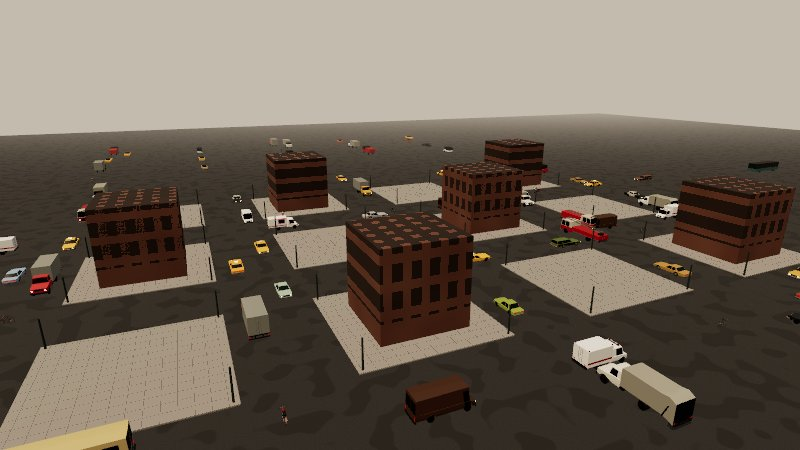
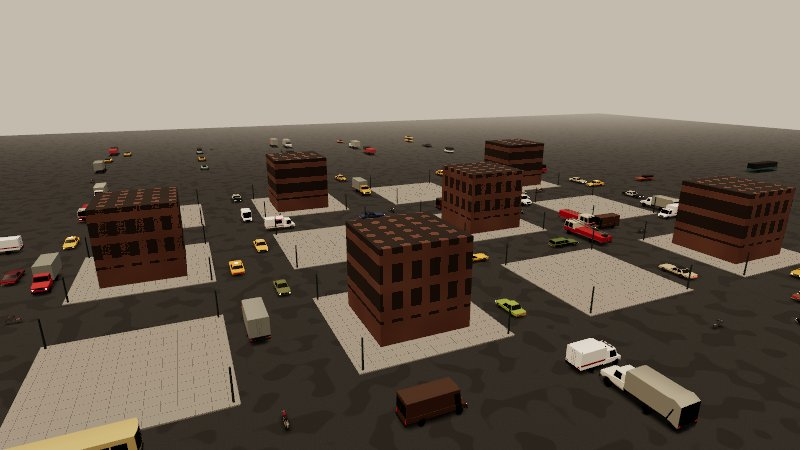
Vehicles: 1974 street paint mix (~10% white; earth tones, greens, golds, maroons, dark blues, beige); vinyl roofs on traffic instances
Claude-Session: https://claude.ai/code/session_01H4ZSJ51q9zJhE3T3n4Hw3M

diff --git a/src/vehicles/traffic.ts b/src/vehicles/traffic.ts
@@ -1,7 +1,7 @@
 import * as THREE from 'three/webgpu';
 import { SLOTS, type Slot } from './gen/builder';
 import { trafficSlotColor, type Quality } from './gen/materials';
-import { getAsset } from './assets';
+import { getAsset, variantOf } from './assets';
 import type { ModelSpec } from './gen/spec';
 import { MODEL_BY_ID } from './models';
 import { BIKE_BY_ID, buildBike, type BikeSpec } from './twowheel/bikes';
@@ -19,15 +19,16 @@ interface SplitOpts { paint2?: number; roofColor?: ModelSpec['roofColor']; signW
 function splitForInstancing(spec: SplitOpts, g: THREE.BufferGeometry) {
   const pos = g.getAttribute('position'), nrm = g.getAttribute('normal');
   const idx = g.index!;
-  const out = { paint: [] as number[], fixed: [] as number[], fixedCol: [] as number[], tail: [] as number[], head: [] as number[], sign: [] as number[] };
+  const out = { paint: [] as number[], fixed: [] as number[], fixedCol: [] as number[], tail: [] as number[], head: [] as number[], sign: [] as number[], vinyl: [] as number[] };
   const roofFixed = typeof spec.roofColor === 'number' ? spec.roofColor : spec.roofColor === 'paint2' ? spec.paint2 ?? 0xffffff : null;
   const c = new THREE.Color();
   const push = (arr: number[], i: number) => arr.push(pos.getX(i), pos.getY(i), pos.getZ(i), nrm.getX(i), nrm.getY(i), nrm.getZ(i));
   for (const grp of g.groups) {
     const slot = SLOTS[grp.materialIndex!] as Slot;
-    let target: 'paint' | 'fixed' | 'tail' | 'head' | 'sign';
+    let target: 'paint' | 'fixed' | 'tail' | 'head' | 'sign' | 'vinyl';
     let col: number | null = null;
     if (slot === 'paint' || (slot === 'roof' && roofFixed === null)) target = 'paint';
+    else if (slot === 'vinyl') target = 'vinyl'; // per-instance colour: vinyl, or the paint when the car has none
     else if (slot === 'taillamp') target = 'tail';
     else if (slot === 'headlamp') target = 'head';
     else if (slot === 'white' && spec.signWhite) target = 'sign'; // taxi roof light box / beacons
@@ -51,7 +52,7 @@ function splitForInstancing(spec: SplitOpts, g: THREE.BufferGeometry) {
     if (col) geo.setAttribute('color', new THREE.Float32BufferAttribute(col, 3));
     return geo;
   };
-  return { paint: mk(out.paint), fixed: mk(out.fixed, out.fixedCol), tail: mk(out.tail), head: mk(out.head), sign: mk(out.sign) };
+  return { paint: mk(out.paint), fixed: mk(out.fixed, out.fixedCol), tail: mk(out.tail), head: mk(out.head), sign: mk(out.sign), vinyl: mk(out.vinyl) };
 }
 
 /** A two-wheeler's LOD1 parts merged (frame, steering assembly, wheels) for instancing. */
@@ -69,7 +70,9 @@ function bikeGeometry(b: BikeSpec): THREE.BufferGeometry {
 
 /** Body + wheels merged into one geometry so a whole car is three instanced draws. */
 function withWheels(spec: ModelSpec, lod: 1 | 2): THREE.BufferGeometry {
-  const a = getAsset(spec, { vinyl: 'none', whitewall: false, wheelStyle: spec.wheelStyle });
+  // models that come with vinyl roofs carry the vinyl panel; cars without one get it painted (per instance)
+  const vinyl = spec.vinylChance > 0 ? (spec.cls === 'coupe' ? 'landau' : 'full') : 'none';
+  const a = getAsset(spec, { vinyl, whitewall: false, wheelStyle: spec.wheelStyle });
   if (lod === 2) return a.lod2;
   const g = a.lod1;
   const parts: THREE.BufferGeometry[] = [g.body.clone()];
@@ -110,6 +113,7 @@ function mergeGrouped(gs: THREE.BufferGeometry[]): THREE.BufferGeometry {
 }
 
 interface ModelBatch {
+  vinyl: THREE.InstancedMesh | null;
   paint: THREE.InstancedMesh; fixed: THREE.InstancedMesh; tail: THREE.InstancedMesh; head: THREE.InstancedMesh; sign: THREE.InstancedMesh | null;
   /** Contact shadow (one quad per car); ground light pools (own counts: only cars with lamps lit). */
   shadow: THREE.InstancedMesh; pool: THREE.InstancedMesh; brake: THREE.InstancedMesh; tailGlow: THREE.InstancedMesh;
@@ -126,7 +130,7 @@ export class TrafficRenderer {
   private batches = new Map<string, [ModelBatch, ModelBatch]>();
   private dims = new Map<string, ModelDims>();
   private shadowMats: THREE.Material[] = [];
-  private resolveCache = new Map<string, { modelId: string; paint: THREE.Color }>();
+  private resolveCache = new Map<string, { modelId: string; paint: THREE.Color; vinyl: THREE.Color }>();
   private lampCols = {
     brake: new THREE.Color(0xff2a10).multiplyScalar(2.2), tailRun: new THREE.Color(0xc01808), tailOff: new THREE.Color(0x4a0806),
     reverse: new THREE.Color(0xffffff).multiplyScalar(1.6), amber: new THREE.Color(0xff9a20).multiplyScalar(2),
@@ -134,7 +138,7 @@ export class TrafficRenderer {
     signOn: new THREE.Color(0xfff2d0).multiplyScalar(1.8), signOff: new THREE.Color(0xc8c4b8),
     beacon: new THREE.Color(0xff2010).multiplyScalar(3), beaconOff: new THREE.Color(0x5a0a08),
   };
-  private mats: { paint: THREE.Material; fixed: THREE.Material; lamp: THREE.Material };
+  private mats: { paint: THREE.Material; fixed: THREE.Material; lamp: THREE.Material; vinyl: THREE.Material };
   private _m = new THREE.Matrix4(); private _q = new THREE.Quaternion(); private _p = new THREE.Vector3(); private _s = new THREE.Vector3(1, 1, 1); private _y = new THREE.Vector3(0, 1, 0);
   /** Distance (m) beyond which the box impostor is used. */
   lod2Distance: number;
@@ -147,6 +151,7 @@ export class TrafficRenderer {
       paint: new THREE.MeshStandardNodeMaterial({ roughness: 0.45, metalness: 0.1 }),
       fixed: new THREE.MeshStandardNodeMaterial({ vertexColors: true, roughness: 0.4, metalness: 0.3 }),
       lamp: new THREE.MeshBasicNodeMaterial({}),
+      vinyl: new THREE.MeshStandardNodeMaterial({ roughness: 0.78, metalness: 0 }),
     };
   }
 
@@ -190,10 +195,11 @@ export class TrafficRenderer {
         paint.name = 'traffic-paint';
         const tail = im(parts.tail, this.mats.lamp, true), head = im(parts.head, this.mats.lamp, true);
         const sign = parts.sign.getAttribute('position').count ? im(parts.sign, this.mats.lamp, true) : null;
+        const vinyl = parts.vinyl.getAttribute('position').count ? im(parts.vinyl, this.mats.vinyl, true) : null;
         const flat = (geo: THREE.BufferGeometry, mat: THREE.Material) => { const m = im(geo, mat, false); m.castShadow = false; m.renderOrder = -1; return m; };
         const shadow = flat(shadowGeo, smat);
         const pool = flat(poolGeo, gm.head), brake = flat(glowGeo, gm.brake), tailGlow = flat(glowGeo, gm.tail);
-        return { paint, fixed, tail, head, sign, shadow, pool, brake, tailGlow, meshes: [paint, fixed, tail, head, shadow, ...(sign ? [sign] : [])], n: 0, np: 0, nb: 0, nt: 0 };
+        return { paint, fixed, tail, head, sign, vinyl, shadow, pool, brake, tailGlow, meshes: [paint, fixed, tail, head, shadow, ...(sign ? [sign] : []), ...(vinyl ? [vinyl] : [])], n: 0, np: 0, nb: 0, nt: 0 };
       };
       b = [mk(1), mk(2)];
       this.batches.set(modelId, b);
@@ -204,7 +210,14 @@ export class TrafficRenderer {
   private resolved(vclass: TrafficInstance['vclass'], variant: number) {
     const k = vclass + ':' + variant;
     let r = this.resolveCache.get(k);
-    if (!r) { const x = resolve(vclass, variant); r = { modelId: x.modelId, paint: new THREE.Color(x.paint) }; this.resolveCache.set(k, r); }
+    if (!r) {
+      const x = resolve(vclass, variant);
+      const spec = MODEL_BY_ID.get(x.modelId);
+      const v = spec ? variantOf(spec, variant) : null;
+      const paint = new THREE.Color(x.paint);
+      r = { modelId: x.modelId, paint, vinyl: v && v.vinyl !== 'none' ? new THREE.Color(v.vinylColor) : paint };
+      this.resolveCache.set(k, r);
+    }
     return r;
   }
 
@@ -228,6 +241,7 @@ export class TrafficRenderer {
       const i = b.n++;
       for (const m of b.meshes) m.setMatrixAt(i, this._m);
       b.paint.setColorAt(i, r.paint);
+      b.vinyl?.setColorAt(i, r.vinyl);
       const lt = it.lights;
       if (pools) {
         const key = 'traffic:' + idx;

diff --git a/src/vehicles/models.ts b/src/vehicles/models.ts
@@ -53,7 +53,8 @@ const bancroft: ModelSpec = {
   wheelStyle: 'fullcover', whitewall: true,
   extras: ['mirrorL', 'antenna'],
   seats: carSeats(0.45), // H-point ~0.95 m behind the windshield base
-  palette: [C.sgAvocado, C.sgHarvest, C.rust, C.bronze, C.sgCream, C.sgBrown, C.sgWhite, C.forest, C.sgMaroon, C.powder, C.silver, C.navy, C.gold, C.sgBrown, C.sgWhite],
+  // 1974 street mix (engine review): earth tones, greens, golds, maroons, dark blues, one beige, ~10% white
+  palette: [C.sgAvocado, C.forest, C.sgHarvest, C.gold, C.rust, C.bronze, C.sgBrown, C.copper, C.sgMaroon, C.burgundy, C.navy, 0x2a3a5a, C.tan, 0xb8a888, C.sgWhite, C.powder],
   metallicChance: 0.35, vinylChance: 0.4,
   physics: carPhysics({}),
 };
@@ -96,7 +97,7 @@ const tiverton: ModelSpec = {
   wheelStyle: 'wire', whitewall: true,
   extras: ['mirrorL', 'antenna'],
   seats: carSeats(0.58, 0.6),
-  palette: [C.burgundy, C.bronze, C.cream, C.forest, C.navy, C.white, C.black, C.gold, C.copper],
+  palette: [C.burgundy, C.bronze, C.forest, C.navy, C.gold, C.copper, C.black, C.tan, C.white, C.sgMaroon],
   metallicChance: 0.6, vinylChance: 0.9,
   physics: carPhysics({ mass: 2150, freqF: 0.95, freqR: 1.05, zeta: 0.2, torque: 480, muPeak: 0.84 }),
 };
@@ -118,7 +119,7 @@ const ferris: ModelSpec = {
   wheelStyle: 'hubcap', whitewall: false,
   extras: ['mirrorL'],
   seats: carSeats(0.3, 0.6),
-  palette: [C.lime, C.harvest, C.orange, C.powder, C.white, C.tan, C.red, C.mint, C.brown],
+  palette: [C.lime, C.harvest, C.orange, C.powder, C.tan, C.red, C.mint, C.brown, C.sgAvocado, C.white],
   metallicChance: 0.1, vinylChance: 0.1,
   physics: carPhysics({ mass: 1400, comY: 0.53, torque: 290, peakRpm: 2000, redline: 4400, finalDrive: 2.9, freqF: 1.2, freqR: 1.3, zeta: 0.25, antiRoll: 0.2, cdA: 0.85, steerRate: 2.4 }),
 };
@@ -135,7 +136,7 @@ const homestead: ModelSpec = {
   rearBumper: { kind: 'chrome', y: 0.3, h: 0.18, depth: 0.08, wrap: 0.3 },
   trim: { rocker: true, wheelLip: true, windowFrame: 'chrome', doors: true },
   extras: ['roofRack', 'mirrorL', 'antenna'],
-  palette: [C.harvest, C.avocado, C.white, C.cream, C.brown, C.powder, C.bronze, C.forest],
+  palette: [C.harvest, C.avocado, C.brown, C.bronze, C.forest, C.tan, C.gold, C.copper, 0xb8a888, C.white],
   vinylChance: 0,
   physics: carPhysics({ mass: 2100, frontWeight: 0.52 }),
 };

diff --git a/docs/VEHICLES_PROGRESS.md b/docs/VEHICLES_PROGRESS.md
@@ -248,6 +248,16 @@ Brief: `docs/briefs/VEHICLES_BRIEF.md`. Branch: `claude/youthful-newton-py223e`,
   600 chips.
 - Shot: `damage_parts.jpg`. Rig section `parts`.
 
+- **1974 paint mix (engine review: the parked rows skewed white).**
+  - Civilian palettes are rebalanced toward earth tones, greens (avocado, forest), golds and
+    harvest yellow, maroons, dark blues and beige, with no silver.
+  - Share of white or cream per class (1000 variants): sedan 6.8%, hardtop 10.0%, compact 9.4%,
+    wagon 10.6%.
+  - Taxis, police and fleet liveries are unchanged. Still deterministic per variant.
+- **Traffic vinyl roofs:** TrafficRenderer batches for models with vinyl roofs carry the vinyl
+  panel as their own instanced part, coloured per instance (the variant's vinyl colour, or the
+  body paint when that car has none). Vinyl share: hardtops 90%, sedans 42%, compacts 9%.
+
 ### vs GTA V / VI / RDR2 (vehicles)
 - **What the references do:**
   - GTA V player cars are high-poly hero meshes with full interiors and working gauges.
